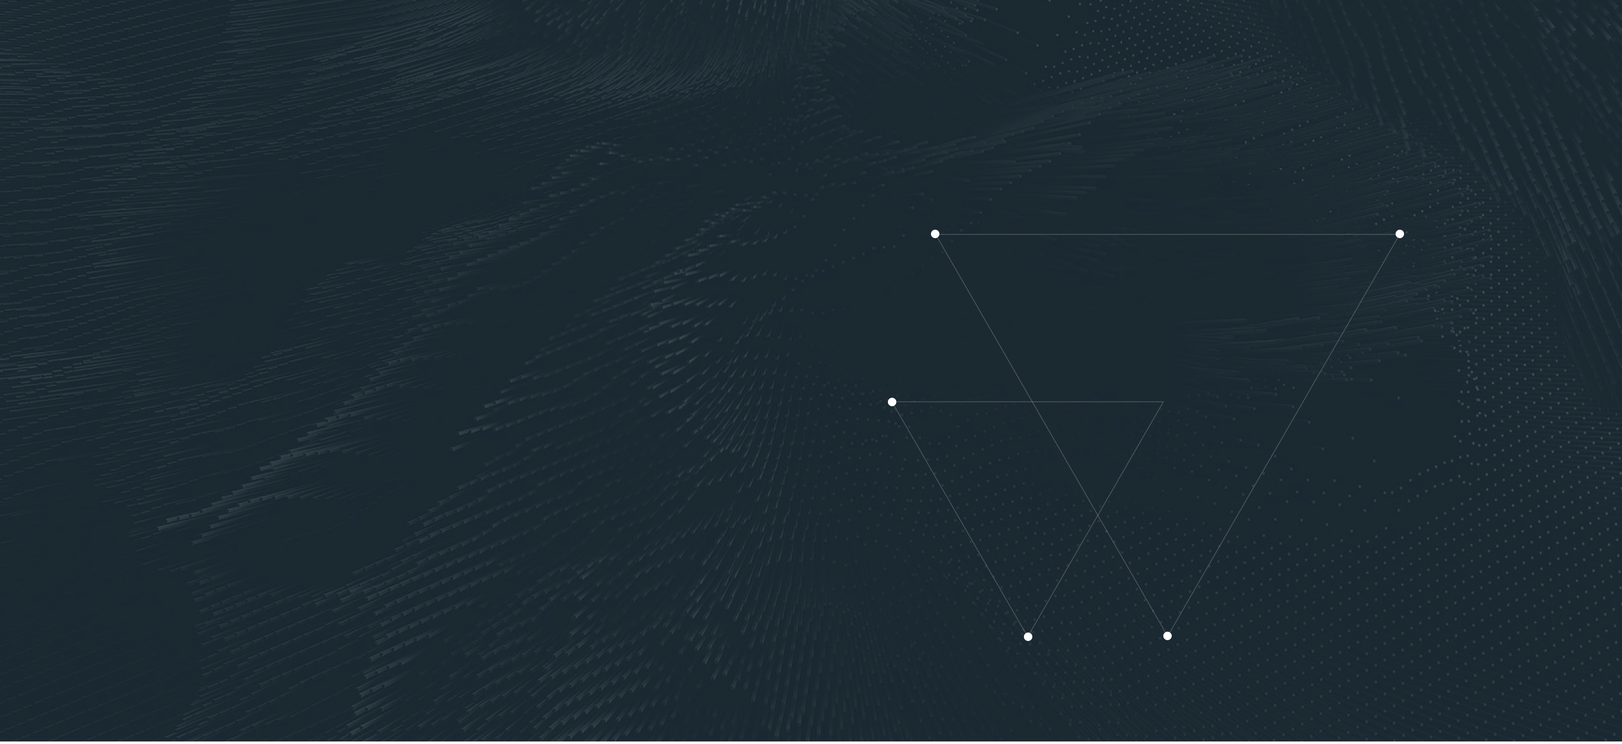
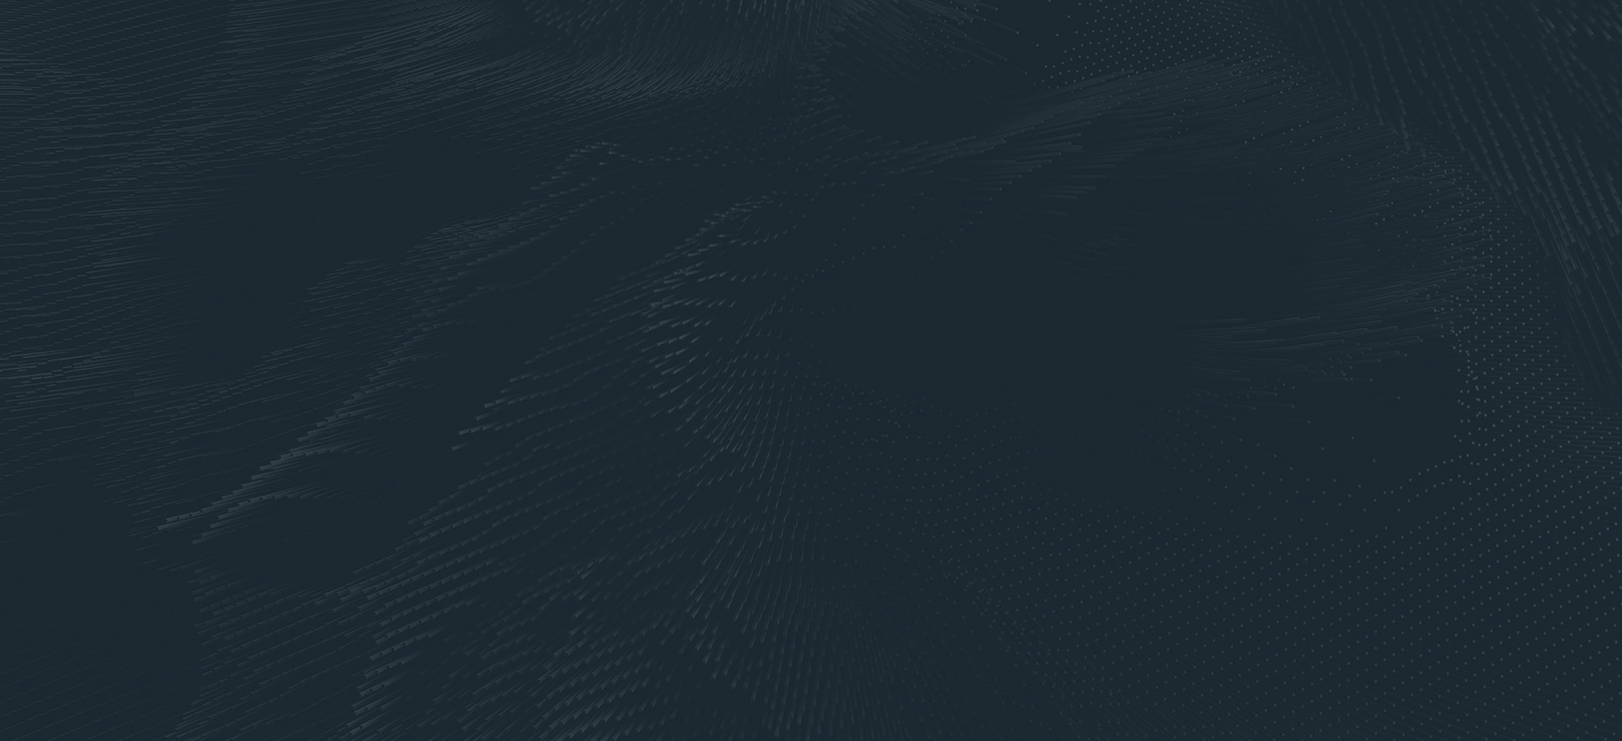
добавление главного экрана

Changed region(s): [[0.0, 0.9841, 1.0, 1.0]]

diff --git a/build/css/style.min.css b/build/css/style.min.css
@@ -1,2 +1,2 @@
-.visually-hidden:not(:focus):not(:active),input[type=checkbox].visually-hidden,input[type=radio].visually-hidden{position:absolute;width:1px;height:1px;margin:-1px;border:0;padding:0;white-space:nowrap;-webkit-clip-path:inset(100%);clip-path:inset(100%);clip:rect(0 0 0 0);overflow:hidden}body{font-family:"PTMono","Arial",sans-serif;font-size:16px;color:#666;font-weight:400;margin:0}input::-webkit-inner-spin-button,input::-webkit-outer-spin-button{-webkit-appearance:none;appearance:none;margin:0}html{line-height:1.15;-webkit-text-size-adjust:100%}details,main{display:block}h1{font-size:2em;margin:.67em 0}hr{-webkit-box-sizing:content-box;box-sizing:content-box;height:0;overflow:visible}code,kbd,pre,samp{font-family:monospace,monospace;font-size:1em}a{background-color:transparent}abbr[title]{border-bottom:none;-webkit-text-decoration:underline dotted;text-decoration:underline dotted}b,strong{font-weight:bolder}small{font-size:80%}sub,sup{font-size:75%;line-height:0;position:relative;vertical-align:baseline}sub{bottom:-.25em}sup{top:-.5em}img{border-style:none}button,input,optgroup,select,textarea{font-family:inherit;font-size:100%;line-height:1.15;margin:0}button,input{overflow:visible}button,select{text-transform:none}[type=button],[type=reset],[type=submit],button{-webkit-appearance:button}[type=button]::-moz-focus-inner,[type=reset]::-moz-focus-inner,[type=submit]::-moz-focus-inner,button::-moz-focus-inner{border-style:none;padding:0}[type=button]:-moz-focusring,[type=reset]:-moz-focusring,[type=submit]:-moz-focusring,button:-moz-focusring{outline:1px dotted ButtonText}fieldset{padding:.35em .75em .625em}legend{color:inherit;display:table;max-width:100%;white-space:normal}progress{vertical-align:baseline}textarea{overflow:auto}[type=checkbox],[type=radio],legend{-webkit-box-sizing:border-box;box-sizing:border-box;padding:0}[type=number]::-webkit-inner-spin-button,[type=number]::-webkit-outer-spin-button{height:auto}[type=search]{-webkit-appearance:textfield;outline-offset:-2px}[type=search]::-webkit-search-decoration{-webkit-appearance:none}::-webkit-file-upload-button{-webkit-appearance:button;font:inherit}summary{display:list-item}[hidden],template{display:none}@font-face{font-family:"RobotoCondensed";src:url(../fonts/RobotoCondensed-Bold.woff2) format("woff2"),url(../fonts/RobotoCondensed-Bold.woff) format("woff");font-weight:700;font-style:normal;font-display:swap}@font-face{font-family:"RobotoCondensed";src:url(../fonts/RobotoCondensed-Regular.woff2) format("woff2"),url(../fonts/RobotoCondensed-Regular.woff) format("woff");font-weight:400;font-style:normal;font-display:swap}@font-face{font-family:"PTMono";src:url(../fonts/PTMono-Regular.woff2) format("woff2"),url(../fonts/PTMono-Regular.woff) format("woff");font-weight:400;font-style:normal;font-display:swap}@font-face{font-family:"Roboto";src:url(../fonts/Roboto-Medium.woff2) format("woff2"),url(../fonts/Roboto-Medium.woff) format("woff");font-weight:500;font-style:normal;font-display:swap}.header{display:-webkit-box;display:-ms-flexbox;display:flex;-webkit-box-orient:horizontal;-webkit-box-direction:normal;-ms-flex-direction:row;flex-direction:row;-webkit-box-pack:justify;-ms-flex-pack:justify;justify-content:space-between;-webkit-box-align:center;-ms-flex-align:center;align-items:center;max-width:1461px;padding-right:25px;padding-left:25px;padding-top:33px;width:100%;margin:0 auto;-webkit-box-sizing:border-box;box-sizing:border-box;background-color:#1b2931}@media (max-width:1023px){.header{padding-top:20px}}@media (max-width:767px){.header{padding-top:17px;padding-left:17px;padding-right:15px}}.contacts,.contacts__list,.wrapper{display:-webkit-box;display:-ms-flexbox;display:flex;-webkit-box-direction:normal}.wrapper{min-height:100vh;min-width:320px;max-width:1920px;margin:0 auto;-webkit-box-orient:vertical;-ms-flex-direction:column;flex-direction:column}.contacts,.contacts__list{-webkit-box-orient:horizontal;-ms-flex-direction:row;flex-direction:row;-webkit-box-align:center;-ms-flex-align:center;align-items:center}.contacts__list{margin-right:38px}@media (max-width:1023px){.contacts__list{margin-right:0}}.contacts__item{margin-right:88px;color:#fff;text-decoration:none;display:-webkit-box;display:-ms-flexbox;display:flex;-webkit-box-align:center;-ms-flex-align:center;align-items:center}.contacts__item:last-child{margin-right:0}@media (max-width:1023px){.contacts__item{margin-right:33px}.contacts__button,.contacts__item span{display:none}}.contacts__icon--mail{padding-right:20px}@media (max-width:1023px){.contacts__icon--mail{padding-right:0;height:18px;width:25px}}.contacts__icon--phone{padding-right:16px}@media (max-width:1023px){.contacts__icon--phone{padding-right:0;height:24px;width:24px}}.logo,.logo__text{display:-webkit-box;display:-ms-flexbox;display:flex;-webkit-box-direction:normal}.logo{-webkit-box-align:end;-ms-flex-align:end;align-items:flex-end;-webkit-box-orient:horizontal;-ms-flex-direction:row;flex-direction:row}@media (max-width:767px){.logo--footer .logo__text{display:-webkit-box;display:-ms-flexbox;display:flex}.logo--footer .logo__image{width:52px;height:52px}}.logo__text{font-family:"RobotoCondensed","Arial",sans-serif;text-decoration:none;color:#fff;font-weight:700;font-size:25px;line-height:29.3px;-webkit-box-orient:vertical;-ms-flex-direction:column;flex-direction:column}@media (max-width:767px){.logo__text{display:none}}.logo__subtitle{font-family:"Roboto","Arial",sans-serif;color:#788891;font-size:12px;line-height:14px}.logo__image{margin-right:16px}@media (max-width:767px){.logo__image{width:38px;height:38px}}.logo__title--footer{color:#203c42}.button{text-decoration:none;padding:14px 0;text-transform:uppercase;border:1px solid;text-align:center;width:180px;border-radius:10px;-webkit-box-sizing:border-box;box-sizing:border-box;font-family:"RobotoCondensed","Arial",sans-serif;font-weight:700;font-size:14px}.button--white{color:#fff;border-color:#fff}.footer__inner{display:-webkit-box;display:-ms-flexbox;display:flex;-webkit-box-orient:horizontal;-webkit-box-direction:normal;-ms-flex-direction:row;flex-direction:row;-ms-flex-wrap:wrap;flex-wrap:wrap;-webkit-box-pack:justify;-ms-flex-pack:justify;justify-content:space-between;max-width:1466px;padding:65px 27px 55px;margin:0 auto;-webkit-box-sizing:border-box;box-sizing:border-box}@media (max-width:1023px){.footer__inner{padding:19px 0 0}.footer__item:first-child{width:100%;border-bottom:1px solid rgba(98,105,98,.2);padding-bottom:26px;padding-left:25px;padding-right:24px}}@media (max-width:1023px) and (max-width:767px){.footer__item:first-child{padding:46px 0 54px}}@media (max-width:1023px){.footer__item--site-nav{padding-left:27px}}@media (max-width:767px){.footer__item--site-nav{padding:0 15px;width:100%;border-bottom:1px solid rgba(98,105,98,.2)}}@media (max-width:1023px){.footer__item--office{padding-right:37px}}@media (max-width:767px){.footer__item--office{padding:0 15px;width:100%}}@media (max-width:1023px){.footer__item-inner{display:-webkit-box;display:-ms-flexbox;display:flex;-webkit-box-orient:horizontal;-webkit-box-direction:normal;-ms-flex-direction:row;flex-direction:row;-webkit-box-pack:justify;-ms-flex-pack:justify;justify-content:space-between;-webkit-box-align:center;-ms-flex-align:center;align-items:center}}@media (max-width:767px){.footer__item-inner{-webkit-box-orient:vertical;-webkit-box-direction:normal;-ms-flex-direction:column;flex-direction:column}}.footer__info-wrapper{border-top:1px solid rgba(98,105,98,.2)}.footer__general-information{padding:14px 27px;max-width:1466px;margin:0 auto;-webkit-box-sizing:border-box;box-sizing:border-box;display:-webkit-box;display:-ms-flexbox;display:flex;-webkit-box-orient:horizontal;-webkit-box-direction:normal;-ms-flex-direction:row;flex-direction:row;-webkit-box-align:center;-ms-flex-align:center;align-items:center;-webkit-box-pack:justify;-ms-flex-pack:justify;justify-content:space-between}@media (max-width:1023px){.footer__general-information{padding:21px 27px 24px}}@media (max-width:767px){.footer__general-information{-webkit-box-orient:vertical;-webkit-box-direction:normal;-ms-flex-direction:column;flex-direction:column;padding:28px 0 5px}}.footer__date{display:none}@media (max-width:1023px){.footer__date{display:inline-block;margin:0;font-size:13px;line-height:24px}}@media (max-width:767px){.footer__date{padding:26px 0 31px}}.footer__social{padding-top:54px}@media (max-width:1023px){.footer__social{padding-top:0}}.footer__title{margin:0;padding-bottom:29px;font-family:"RobotoCondensed","Arial",sans-serif;font-weight:400;color:#1b2d37;font-style:15px;line-height:16px}@media (max-width:1023px){.footer__title{padding-top:38px}}@media (max-width:767px){.footer__title{cursor:pointer;-webkit-transition:.4s;transition:.4s;position:relative;padding:29px 0}}.footer__phones-list{margin:0;padding:0;list-style:none}.footer__content{font-size:14px;line-height:25px;letter-spacing:.03em;color:#1b2d37;opacity:.5}@media (max-width:1023px){.footer__content{padding-bottom:33px}}@media (max-width:767px){.footer__content{max-height:0;overflow:hidden;-webkit-transition:max-height .2s ease-out;transition:max-height .2s ease-out;padding-bottom:0}}.footer__address{margin:0}.footer__copyright{display:-webkit-box;display:-ms-flexbox;display:flex;-webkit-box-orient:horizontal;-webkit-box-direction:normal;-ms-flex-direction:row;flex-direction:row;-webkit-box-pack:justify;-ms-flex-pack:justify;justify-content:space-between;width:457px}@media (max-width:1023px){.footer__copyright{display:none}}.footer__text{text-transform:uppercase;text-decoration:none;color:#1b2d37;opacity:.5;font-size:13px;margin:0}@media (max-width:767px){.footer__text{padding-bottom:21px}.footer__title:after{content:'';position:absolute;right:0;width:16px;height:16px;background:-webkit-gradient(linear,left top,left bottom,from(#c4c4c4),to(#c4c4c4)),-webkit-gradient(linear,left top,left bottom,from(#c4c4c4),to(#c4c4c4)),#fff;background:linear-gradient(#c4c4c4,#c4c4c4),linear-gradient(#c4c4c4,#c4c4c4),#fff;background-position:center;background-size:100% 1px,1px 100%;background-repeat:no-repeat}.footer__title--active:after{content:"";background:0 0;width:16px;height:1px;background-color:#c4c4c4;top:50%}.footer__title--active+.footer__content{padding-bottom:23px}}.social__list{margin:0;padding:0;list-style:none;display:-webkit-box;display:-ms-flexbox;display:flex;-webkit-box-orient:horizontal;-webkit-box-direction:normal;-ms-flex-direction:row;flex-direction:row}.social__item{margin-right:15px}.social__item:last-child{margin-right:0}.site-nav{margin:0;padding:0;list-style:none;display:grid;grid-template-columns:243px auto;grid-template-rows:repeat(4,1fr);grid-auto-flow:column;-webkit-column-gap:65px;-moz-column-gap:65px;column-gap:65px}@media (max-width:1023px){.site-nav{display:-webkit-box;display:-ms-flexbox;display:flex;-webkit-box-orient:vertical;-webkit-box-direction:normal;-ms-flex-direction:column;flex-direction:column}}
+.visually-hidden:not(:focus):not(:active),input[type=checkbox].visually-hidden,input[type=radio].visually-hidden{position:absolute;width:1px;height:1px;margin:-1px;border:0;padding:0;white-space:nowrap;-webkit-clip-path:inset(100%);clip-path:inset(100%);clip:rect(0 0 0 0);overflow:hidden}body{font-family:"PTMono","Arial",sans-serif;font-size:16px;color:#666;font-weight:400;margin:0}input::-webkit-inner-spin-button,input::-webkit-outer-spin-button{-webkit-appearance:none;appearance:none;margin:0}html{line-height:1.15;-webkit-text-size-adjust:100%}details,main{display:block}h1{font-size:2em;margin:.67em 0}hr{-webkit-box-sizing:content-box;box-sizing:content-box;height:0;overflow:visible}code,kbd,pre,samp{font-family:monospace,monospace;font-size:1em}a{background-color:transparent}abbr[title]{border-bottom:none;-webkit-text-decoration:underline dotted;text-decoration:underline dotted}b,strong{font-weight:bolder}small{font-size:80%}sub,sup{font-size:75%;line-height:0;position:relative;vertical-align:baseline}sub{bottom:-.25em}sup{top:-.5em}img{border-style:none}button,input,optgroup,select,textarea{font-family:inherit;font-size:100%;line-height:1.15;margin:0}button,input{overflow:visible}button,select{text-transform:none}[type=button],[type=reset],[type=submit],button{-webkit-appearance:button}[type=button]::-moz-focus-inner,[type=reset]::-moz-focus-inner,[type=submit]::-moz-focus-inner,button::-moz-focus-inner{border-style:none;padding:0}[type=button]:-moz-focusring,[type=reset]:-moz-focusring,[type=submit]:-moz-focusring,button:-moz-focusring{outline:1px dotted ButtonText}fieldset{padding:.35em .75em .625em}legend{color:inherit;display:table;max-width:100%;white-space:normal}progress{vertical-align:baseline}textarea{overflow:auto}[type=checkbox],[type=radio],legend{-webkit-box-sizing:border-box;box-sizing:border-box;padding:0}[type=number]::-webkit-inner-spin-button,[type=number]::-webkit-outer-spin-button{height:auto}[type=search]{-webkit-appearance:textfield;outline-offset:-2px}[type=search]::-webkit-search-decoration{-webkit-appearance:none}::-webkit-file-upload-button{-webkit-appearance:button;font:inherit}summary{display:list-item}[hidden],template{display:none}@font-face{font-family:"RobotoCondensed";src:url(../fonts/RobotoCondensed-Bold.woff2) format("woff2"),url(../fonts/RobotoCondensed-Bold.woff) format("woff");font-weight:700;font-style:normal;font-display:swap}@font-face{font-family:"RobotoCondensed";src:url(../fonts/RobotoCondensed-Regular.woff2) format("woff2"),url(../fonts/RobotoCondensed-Regular.woff) format("woff");font-weight:400;font-style:normal;font-display:swap}@font-face{font-family:"PTMono";src:url(../fonts/PTMono-Regular.woff2) format("woff2"),url(../fonts/PTMono-Regular.woff) format("woff");font-weight:400;font-style:normal;font-display:swap}@font-face{font-family:"Roboto";src:url(../fonts/Roboto-Medium.woff2) format("woff2"),url(../fonts/Roboto-Medium.woff) format("woff");font-weight:500;font-style:normal;font-display:swap}.header{display:-webkit-box;display:-ms-flexbox;display:flex;-webkit-box-orient:horizontal;-webkit-box-direction:normal;-ms-flex-direction:row;flex-direction:row;-webkit-box-pack:justify;-ms-flex-pack:justify;justify-content:space-between;-webkit-box-align:center;-ms-flex-align:center;align-items:center;max-width:1461px;padding-right:25px;padding-left:25px;padding-top:33px;width:100%;margin:0 auto;-webkit-box-sizing:border-box;box-sizing:border-box}@media (max-width:1023px){.header{padding-top:20px}}@media (max-width:767px){.header{padding-top:17px;padding-left:17px;padding-right:15px}}.contacts,.contacts__list,.wrapper{display:-webkit-box;display:-ms-flexbox;display:flex;-webkit-box-direction:normal}.wrapper{min-height:100vh;min-width:320px;max-width:1920px;margin:0 auto;-webkit-box-orient:vertical;-ms-flex-direction:column;flex-direction:column}.contacts,.contacts__list{-webkit-box-orient:horizontal;-ms-flex-direction:row;flex-direction:row;-webkit-box-align:center;-ms-flex-align:center;align-items:center}.contacts__list{margin-right:38px}@media (max-width:1023px){.contacts__list{margin-right:0}}.contacts__item{margin-right:88px;color:#fff;text-decoration:none;display:-webkit-box;display:-ms-flexbox;display:flex;-webkit-box-align:center;-ms-flex-align:center;align-items:center}.contacts__item:last-child{margin-right:0}@media (max-width:1023px){.contacts__item{margin-right:33px}.contacts__item span{display:none}}.contacts__button{width:180px}@media (max-width:1023px){.contacts__button{display:none}}.contacts__icon--mail{padding-right:20px}@media (max-width:1023px){.contacts__icon--mail{padding-right:0;height:18px;width:25px}}.contacts__icon--phone{padding-right:16px}@media (max-width:1023px){.contacts__icon--phone{padding-right:0;height:24px;width:24px}}.logo,.logo__text{display:-webkit-box;display:-ms-flexbox;display:flex;-webkit-box-direction:normal}.logo{-webkit-box-align:end;-ms-flex-align:end;align-items:flex-end;-webkit-box-orient:horizontal;-ms-flex-direction:row;flex-direction:row}@media (max-width:767px){.logo--footer .logo__text{display:-webkit-box;display:-ms-flexbox;display:flex}.logo--footer .logo__image{width:52px;height:52px}}.logo__text{font-family:"RobotoCondensed","Arial",sans-serif;text-decoration:none;color:#fff;font-weight:700;font-size:25px;line-height:29.3px;-webkit-box-orient:vertical;-ms-flex-direction:column;flex-direction:column}@media (max-width:767px){.logo__text{display:none}}.logo__subtitle{font-family:"Roboto","Arial",sans-serif;color:#788891;font-size:12px;line-height:14px}.logo__image{margin-right:16px}@media (max-width:767px){.logo__image{width:38px;height:38px}}.logo__title--footer{color:#203c42}.button{text-decoration:none;padding:14px 0;text-transform:uppercase;border:1px solid;text-align:center;border-radius:5px;-webkit-box-sizing:border-box;box-sizing:border-box;font-family:"RobotoCondensed","Arial",sans-serif;font-weight:700;font-size:14px}.button--white{color:#fff;border-color:#fff}.footer__inner{display:-webkit-box;display:-ms-flexbox;display:flex;-webkit-box-orient:horizontal;-webkit-box-direction:normal;-ms-flex-direction:row;flex-direction:row;-ms-flex-wrap:wrap;flex-wrap:wrap;-webkit-box-pack:justify;-ms-flex-pack:justify;justify-content:space-between;max-width:1466px;padding:65px 27px 55px;margin:0 auto;-webkit-box-sizing:border-box;box-sizing:border-box}@media (max-width:1023px){.footer__inner{padding:19px 0 0}.footer__item:first-child{width:100%;border-bottom:1px solid rgba(98,105,98,.2);padding-bottom:26px;padding-left:25px;padding-right:24px}}@media (max-width:1023px) and (max-width:767px){.footer__item:first-child{padding:46px 0 54px}}@media (max-width:1023px){.footer__item--site-nav{padding-left:27px}}@media (max-width:767px){.footer__item--site-nav{padding:0 15px;width:100%;border-bottom:1px solid rgba(98,105,98,.2)}}@media (max-width:1023px){.footer__item--office{padding-right:37px}}@media (max-width:767px){.footer__item--office{padding:0 15px;width:100%}}@media (max-width:1023px){.footer__item-inner{display:-webkit-box;display:-ms-flexbox;display:flex;-webkit-box-orient:horizontal;-webkit-box-direction:normal;-ms-flex-direction:row;flex-direction:row;-webkit-box-pack:justify;-ms-flex-pack:justify;justify-content:space-between;-webkit-box-align:center;-ms-flex-align:center;align-items:center}}@media (max-width:767px){.footer__item-inner{-webkit-box-orient:vertical;-webkit-box-direction:normal;-ms-flex-direction:column;flex-direction:column}}.footer__info-wrapper{border-top:1px solid rgba(98,105,98,.2)}.footer__general-information{padding:14px 27px;max-width:1466px;margin:0 auto;-webkit-box-sizing:border-box;box-sizing:border-box;display:-webkit-box;display:-ms-flexbox;display:flex;-webkit-box-orient:horizontal;-webkit-box-direction:normal;-ms-flex-direction:row;flex-direction:row;-webkit-box-align:center;-ms-flex-align:center;align-items:center;-webkit-box-pack:justify;-ms-flex-pack:justify;justify-content:space-between}@media (max-width:1023px){.footer__general-information{padding:21px 27px 24px}}@media (max-width:767px){.footer__general-information{-webkit-box-orient:vertical;-webkit-box-direction:normal;-ms-flex-direction:column;flex-direction:column;padding:28px 0 5px}}.footer__date{display:none}@media (max-width:1023px){.footer__date{display:inline-block;margin:0;font-size:13px;line-height:24px}}@media (max-width:767px){.footer__date{padding:26px 0 31px}}.footer__social{padding-top:54px}@media (max-width:1023px){.footer__social{padding-top:0}}.footer__title{margin:0;padding-bottom:29px;font-family:"RobotoCondensed","Arial",sans-serif;font-weight:400;color:#1b2d37;font-style:15px;line-height:16px}@media (max-width:1023px){.footer__title{padding-top:38px}}@media (max-width:767px){.footer__title{cursor:pointer;-webkit-transition:.4s;transition:.4s;position:relative;padding:29px 0}}.footer__phones-list{margin:0;padding:0;list-style:none}.footer__content{font-size:14px;line-height:25px;letter-spacing:.03em;color:#1b2d37;opacity:.5}@media (max-width:1023px){.footer__content{padding-bottom:33px}}@media (max-width:767px){.footer__content{max-height:0;overflow:hidden;-webkit-transition:max-height .2s ease-out;transition:max-height .2s ease-out;padding-bottom:0}}.footer__address{margin:0}.footer__copyright{display:-webkit-box;display:-ms-flexbox;display:flex;-webkit-box-orient:horizontal;-webkit-box-direction:normal;-ms-flex-direction:row;flex-direction:row;-webkit-box-pack:justify;-ms-flex-pack:justify;justify-content:space-between;width:457px}@media (max-width:1023px){.footer__copyright{display:none}}.footer__text{text-transform:uppercase;text-decoration:none;color:#1b2d37;opacity:.5;font-size:13px;margin:0}@media (max-width:767px){.footer__text{padding-bottom:21px}.footer__title:after{content:'';position:absolute;right:0;width:16px;height:16px;background:-webkit-gradient(linear,left top,left bottom,from(#c4c4c4),to(#c4c4c4)),-webkit-gradient(linear,left top,left bottom,from(#c4c4c4),to(#c4c4c4)),#fff;background:linear-gradient(#c4c4c4,#c4c4c4),linear-gradient(#c4c4c4,#c4c4c4),#fff;background-position:center;background-size:100% 1px,1px 100%;background-repeat:no-repeat}.footer__title--active:after{content:"";background:0 0;width:16px;height:1px;background-color:#c4c4c4;top:50%}.footer__title--active+.footer__content{padding-bottom:23px}}.social__list{margin:0;padding:0;list-style:none;display:-webkit-box;display:-ms-flexbox;display:flex;-webkit-box-orient:horizontal;-webkit-box-direction:normal;-ms-flex-direction:row;flex-direction:row}.social__item{margin-right:15px}.social__item:last-child{margin-right:0}.site-nav{margin:0;padding:0;list-style:none;display:grid;grid-template-columns:243px auto;grid-template-rows:repeat(4,1fr);grid-auto-flow:column;-webkit-column-gap:65px;-moz-column-gap:65px;column-gap:65px}@media (max-width:1023px){.site-nav{display:-webkit-box;display:-ms-flexbox;display:flex;-webkit-box-orient:vertical;-webkit-box-direction:normal;-ms-flex-direction:column;flex-direction:column}}.promo-block{position:relative}.promo-block__inner{padding-right:25px;padding-left:25px;padding-bottom:89px;max-width:1411px;margin:0 auto;color:#fff;position:relative}@media (max-width:1023px){.promo-block__inner{padding-left:88px;padding-bottom:177px}}@media (max-width:767px){.promo-block__inner{padding-left:15px;padding-right:15px;padding-bottom:100px}}.promo-block__inner::before{content:"";position:absolute;top:173px;right:0;z-index:-10;background-image:url(../img/schema-desktop@1x.png);width:705px;height:515px;background-size:cover;background-repeat:no-repeat}@media (-webkit-min-device-pixel-ratio:1.5) and (-webkit-min-device-pixel-ratio:1.5),(min-resolution:1.5dppx) and (min-resolution:144dpi){.promo-block__inner::before{background-image:url(../img/schema-desktop@2x.png)}}@media (-webkit-min-device-pixel-ratio:1.5) and (-webkit-min-device-pixel-ratio:1.5) and (max-width:1023px),(min-resolution:1.5dppx) and (min-resolution:144dpi) and (max-width:1023px){.promo-block__inner::before{background-image:url(../img/schema-tablet@2x.png)}}@media (-webkit-min-device-pixel-ratio:1.5) and (-webkit-min-device-pixel-ratio:1.5) and (max-width:767px),(min-resolution:1.5dppx) and (min-resolution:144dpi) and (max-width:767px){.promo-block__inner::before{background-image:url(../img/schema-mobile@2x.png)}}@media (max-width:1023px){.promo-block__inner::before{width:310px;background-image:url(../img/schema-tablet@1x.png);top:-50px}}@media (max-width:767px){.promo-block__inner::before{background-image:url(../img/schema-mobile@1x.png);background-size:contain;width:294px;top:-59px}}.promo-block::before{content:"";position:absolute;top:-89px;z-index:-10;background-image:url(../img/header-bg-desktop@1x.jpg);background-size:cover;width:100%;height:878px;background-repeat:no-repeat;background-color:#1b2931}@media (-webkit-min-device-pixel-ratio:1.5) and (-webkit-min-device-pixel-ratio:1.5),(min-resolution:1.5dppx) and (min-resolution:144dpi){.promo-block::before{background-image:url(../img/header-bg-desktop@2x.jpg)}}@media (-webkit-min-device-pixel-ratio:1.5) and (-webkit-min-device-pixel-ratio:1.5) and (max-width:1023px),(min-resolution:1.5dppx) and (min-resolution:144dpi) and (max-width:1023px){.promo-block::before{background-image:url(../img/header-bg-tablet@2x.jpg)}}@media (-webkit-min-device-pixel-ratio:1.5) and (-webkit-min-device-pixel-ratio:1.5) and (max-width:767px),(min-resolution:1.5dppx) and (min-resolution:144dpi) and (max-width:767px){.promo-block::before{background-image:url(../img/header-bg-mobile@2x.jpg)}}@media (max-width:1023px){.promo-block::before{background-image:url(../img/header-bg-tablet@1x.jpg);height:692px;top:-76px}}@media (max-width:767px){.promo-block::before{background-image:url(../img/header-bg-mobile@1x.jpg);height:658px;top:-59px}}.promo-block__title{font-family:"RobotoCondensed","Arial",sans-serif;font-size:80px;line-height:94px;letter-spacing:.07em;text-transform:uppercase;margin:0;padding-bottom:31px;padding-top:231px}@media (max-width:1023px){.promo-block__title{font-size:60px;line-height:70px;max-width:350px;padding-top:131px}}@media (max-width:767px){.promo-block__title{padding-top:231px;font-size:40px;line-height:47px}}.promo-block__text{position:relative;padding-left:94px;padding-bottom:37px;font-size:22px;line-height:34px;margin:0;width:629px}@media (max-width:1023px){.promo-block__text{font-size:18px;padding-left:48px;max-width:404px}}@media (max-width:767px){.promo-block__text{padding-right:0;font-size:16px;width:auto}}.promo-block__text::before{content:"";position:absolute;top:15px;left:0;width:66px;height:2px;background-color:#fff}@media (max-width:1023px){.promo-block__text::before{width:33px}}.promo-block__button{display:block;width:407px;border:0;color:#fff;background-color:#00b2ff;font-size:16px;line-height:19px;letter-spacing:.05em;margin-left:94px}@media (max-width:1023px){.promo-block__button{margin-left:48px;width:379px}}@media (max-width:767px){.promo-block__button{width:100%;margin:0 auto}}.promo-block__scroll{-webkit-transform:rotate(180deg);transform:rotate(180deg);-webkit-writing-mode:vertical-rl;-ms-writing-mode:tb-rl;writing-mode:vertical-rl;padding-bottom:93px;text-decoration:none;color:#fff;opacity:.5;font-size:14px;line-height:16px;cursor:pointer}@media (max-width:1023px){.promo-block__scroll{display:none}}.promo-block__button-text--mobile{display:none}@media (max-width:767px){.promo-block__button-text--mobile{display:inline}.promo-block__button-text--desktop{display:none}}
 /*# sourceMappingURL=style.min.css.map */

diff --git a/source/sass/blocks/promo-block.scss b/source/sass/blocks/promo-block.scss
@@ -1,0 +1,221 @@
+.promo-block {
+  position: relative;
+}
+
+.promo-block__inner {
+  padding-right: 25px;
+  padding-left: 25px;
+  padding-bottom: 89px;
+
+  max-width: 1411px;
+  margin: 0 auto;
+
+  color: $white;
+
+  position: relative;
+
+  @media (max-width: $tablet-width) {
+    padding-left: 88px;
+    padding-bottom: 177px;
+  }
+
+  @media (max-width: $mobile-width) {
+    padding-left: 15px;
+    padding-right: 15px;
+    padding-bottom: 100px;
+  }
+}
+
+.promo-block__inner::before {
+    content: "";
+    position: absolute;
+    top: 173px;
+    right: 0;
+    z-index: -10;
+    background-image: url("../img/schema-desktop@1x.png");
+    
+    width: 705px;
+    height: 515px;
+    background-size: cover;
+    background-repeat: no-repeat;
+
+    @media (min-resolution: $retina-dppx) and (min-resolution: $retina-dpi) {
+      background-image: url("../img/schema-desktop@2x.png");
+
+      @media (max-width: $tablet-width) {
+        background-image: url("../img/schema-tablet@2x.png");
+      }
+
+      @media (max-width: $mobile-width) {
+        background-image: url("../img/schema-mobile@2x.png");
+      }
+    }
+
+  @media (max-width: $tablet-width) {
+    width: 310px;
+    background-image: url("../img/schema-tablet@1x.png");
+    top: -50px;
+  }
+
+  @media (max-width: $mobile-width) {
+    background-image: url("../img/schema-mobile@1x.png");
+    background-size: contain;
+    width: 294px;
+    top: -59px;
+  }
+}
+
+.promo-block::before {
+  content: "";
+  position: absolute;
+  top: -89px;
+  z-index: -10;
+  background-image: url("../img/header-bg-desktop@1x.jpg");
+  background-size: cover;
+  width: 100%;
+  height: 878px;
+  background-repeat: no-repeat;
+  background-color: $dark-blue;
+
+  @media (min-resolution: $retina-dppx) and (min-resolution: $retina-dpi) {
+    background-image: url("../img/header-bg-desktop@2x.jpg");
+
+    @media (max-width: $tablet-width) {
+      background-image: url("../img/header-bg-tablet@2x.jpg");
+    }
+
+    @media (max-width: $mobile-width) {
+      background-image: url("../img/header-bg-mobile@2x.jpg");
+    }
+  }
+
+  @media (max-width: $tablet-width) {
+    background-image: url("../img/header-bg-tablet@1x.jpg");
+    height: 692px;
+    top: -76px;
+  }
+
+  @media (max-width: $mobile-width) {
+    background-image: url("../img/header-bg-mobile@1x.jpg");
+    height: 658px;
+    top: -59px;
+  }
+}
+
+.promo-block__title {
+  font-family: "RobotoCondensed", "Arial", sans-serif;
+  font-size: 80px;
+  line-height: 94px;
+
+  letter-spacing: 0.07em;
+  text-transform: uppercase;
+
+  margin: 0;
+  padding-bottom: 31px;
+  padding-top: 231px;
+
+  @media (max-width: $tablet-width) {
+    font-size: 60px;
+    line-height: 70px;
+    max-width: 350px;
+    padding-top: 131px;
+  }
+
+  @media (max-width: $mobile-width) {
+    padding-top: 231px;
+    font-size: 40px;
+    line-height: 47px;
+  }
+}
+
+.promo-block__text {
+  position: relative;
+  padding-left: 94px;
+  padding-bottom: 37px;
+
+  font-size: 22px;
+  line-height: 34px;
+
+  margin: 0;
+  width: 629px;
+
+  @media (max-width: $tablet-width) {
+    font-size: 18px;
+    padding-left: 48px;
+    max-width: 404px;
+  }
+
+  @media (max-width: $mobile-width) {
+    padding-right: 0;
+    font-size: 16px;
+    width: auto;
+  }
+  
+}
+
+.promo-block__text::before {
+  content: "";
+  position: absolute;
+  top: 15px;
+  left: 0;
+  width: 66px;
+  height: 2px;
+  background-color: $white;
+
+  @media (max-width: $tablet-width) {
+    width: 33px;
+  }
+}
+
+.promo-block__button {
+  display: block;
+  width: 407px;
+  border: none;
+  color: $white;
+  background-color: $blue;
+  font-size: 16px;
+  line-height: 19px;
+  letter-spacing: 0.05em;
+
+  margin-left: 94px;
+
+  @media (max-width: $tablet-width) {
+    margin-left: 48px;
+    width: 379px;
+  }
+
+  @media (max-width: $mobile-width) {
+    width: 100%;
+    margin: 0 auto;
+  }
+}
+
+.promo-block__scroll {
+  transform: rotate(180deg);
+  writing-mode: vertical-rl;
+  padding-bottom: 93px;
+  text-decoration: none;
+  color: $white;
+  opacity: 0.5;
+  font-size: 14px;
+  line-height: 16px;
+  cursor: pointer;
+
+  @media (max-width: $tablet-width) {
+    display: none;
+  }
+}
+
+.promo-block__button-text--mobile {
+  display: none;
+
+  @media (max-width: $mobile-width) {
+    display: inline;
+  }
+}
+
+.promo-block__button-text--desktop {
+  @media (max-width: $mobile-width) {
+    display: none;
+  }
+}

diff --git a/build/js/script.js b/build/js/script.js
@@ -1,30 +1,21 @@
 'use strict';
-// var pageHeader = document.querySelector('.page-header');
-// var headerToggle = document.querySelector('.page-header__toggle');
 
-// pageHeader.classList.remove('page-header--nojs');
+const mobileWidthOnly = 767;
+var acc = document.querySelectorAll('.footer__title');
 
-// headerToggle.addEventListener('click', function () {
-//   if (pageHeader.classList.contains('page-header--closed')) {
-//     pageHeader.classList.remove('page-header--closed');
-//     pageHeader.classList.add('page-header--opened');
-//   } else {
-//     pageHeader.classList.add('page-header--closed');
-//     pageHeader.classList.remove('page-header--opened');
-//   }
-// });
-
-var acc = document.getElementsByClassName("accordion");
-var i;
-
-for (i = 0; i < acc.length; i++) {
-  acc[i].addEventListener("click", function () {
-    this.classList.toggle("active");
-    var panel = this.nextElementSibling;
-    if (panel.style.maxHeight) {
-      panel.style.maxHeight = null;
-    } else {
-      panel.style.maxHeight = panel.scrollHeight + "px";
-    }
+  acc.forEach(item => {
+    item.addEventListener('click', function () {
+      if (window.innerWidth <= mobileWidthOnly) {
+        this.classList.toggle('footer__title--active');
+        var content = this.nextElementSibling;
+        if (content.style.maxHeight) {
+          content.style.maxHeight = null;
+        } else {
+          content.style.maxHeight = content.scrollHeight + 'px';
+        }
+      }
+    });
   });
-}
+
+
+

diff --git a/source/index.html b/source/index.html
@@ -156,6 +156,20 @@
       </div>
     </header>
 
+    <main>
+      <div class="promo-block">
+        <div class="promo-block__inner">
+          <h1 class="promo-block__title">Печатные платы</h1>
+          <p class="promo-block__text">производство и монтаж, поставка комплектующих, блоков и модулей</p>
+          <a href="#" class="promo-block__button button">
+            <span class="promo-block__button-text promo-block__button-text--desktop">Получить бесплатную консультацию</span>
+            <span class="promo-block__button-text promo-block__button-text--mobile">Бесплатная консультация</span>
+          </a>
+          <a class="promo-block__scroll" href="#">Скролл вниз</a>
+        </div>
+      </div>
+    </main>
+
     <footer class="footer">
       <div class="footer__inner">
         <div class="footer__item">

diff --git a/build/index.html b/build/index.html
@@ -98,6 +98,20 @@
       </div>
     </header>
 
+    <main>
+      <div class="promo-block">
+        <div class="promo-block__inner">
+          <h1 class="promo-block__title">Печатные платы</h1>
+          <p class="promo-block__text">производство и монтаж, поставка комплектующих, блоков и модулей</p>
+          <a href="#" class="promo-block__button button">
+            <span class="promo-block__button-text promo-block__button-text--desktop">Получить бесплатную консультацию</span>
+            <span class="promo-block__button-text promo-block__button-text--mobile">Бесплатная консультация</span>
+          </a>
+          <a class="promo-block__scroll" href="#">Скролл вниз</a>
+        </div>
+      </div>
+    </main>
+
     <footer class="footer">
       <div class="footer__inner">
         <div class="footer__item">

diff --git a/source/sass/blocks/header.scss b/source/sass/blocks/header.scss
@@ -11,8 +11,6 @@
   margin: 0 auto;
   box-sizing: border-box;
 
-  background-color: $dark-blue;
-
   @media (max-width: $tablet-width) {
     padding-top: 20px;
   }
@@ -23,15 +21,3 @@
     padding-right: 15px;
   }
 }
-
-// .header::before {
-//   content: "";
-//   position: absolute;
-//   top: 0;
-//   left: -253px;
-//   z-index: -10;
-//   background-image: url("../img/header-bg-desktop@1x.jpg");
-//   max-width: 1920px;
-//   height: 950px;
-//   background-repeat: no-repeat;
-// }

diff --git a/source/sass/blocks/button.scss b/source/sass/blocks/button.scss
@@ -4,8 +4,7 @@
   text-transform: uppercase;
   border: 1px solid;
   text-align: center;
-  width: 180px;
-  border-radius: 10px;
+  border-radius: 5px;
   box-sizing: border-box;
 
   font-family: "RobotoCondensed", "Arial", sans-serif;

diff --git a/source/sass/style.scss b/source/sass/style.scss
@@ -11,4 +11,5 @@
   "blocks/button.scss",
   "blocks/footer.scss",
   "blocks/social.scss",
-  "blocks/site-nav.scss"
+  "blocks/site-nav.scss",
+  "blocks/promo-block.scss"

diff --git a/source/sass/blocks/contacts.scss b/source/sass/blocks/contacts.scss
@@ -37,6 +37,8 @@
 }
 
 .contacts__button {
+  width: 180px;
+  
   @media (max-width: $tablet-width) {
     display: none;
   }
